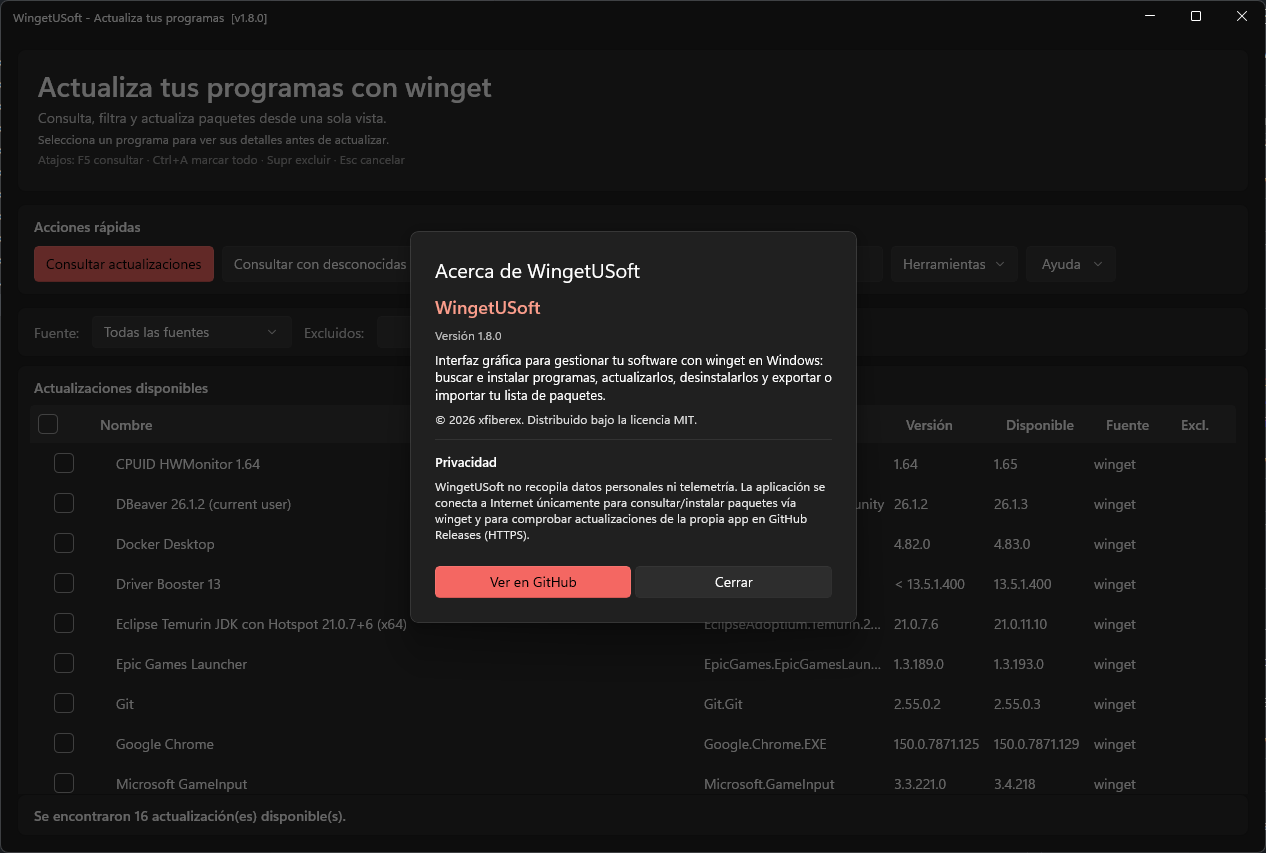
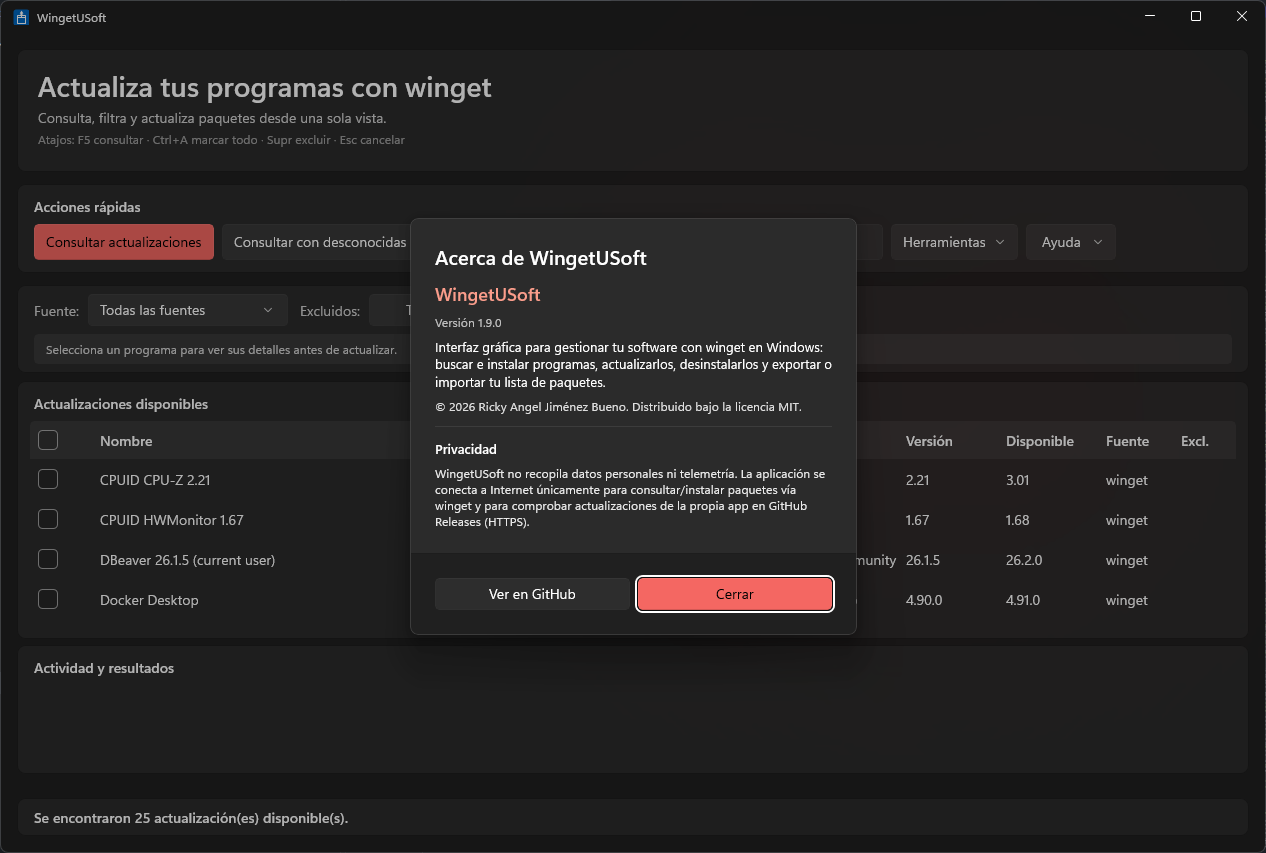
release: v1.9.0

diff --git a/CONTEXT.md b/CONTEXT.md
@@ -256,6 +256,7 @@ Lo comparten el hook de pre-push y `release.ps1`.
 
 | Fecha | Versión | Qué |
 |---|---|---|
+| 2026-09-17 | **1.9.0** | **Tier F · bloque F·2 completo** — Mica visible, diálogos y barra de título modernos, estilos compartidos, etiquetas reales en búsquedas y filtros, y Configuración rehecha con un único patrón de fila |
 | 2026-09-17 | **1.8.9** | **Tier F · bloque F·1 completo** — la bandeja por fin funciona (icono y menú con «Salir»), la tabla desplaza por sí misma, confirmaciones con verbo, botón de peligro AA y diálogos con el tema elegido; CI, CodeQL y Dependabot en GitHub |
 | 2026-08-23 | **1.8.8** | **Tier T4 y cierre del plan de auditoría** — MainWindow dividido, el flujo de lotes por fin probable, cobertura en local, y SECURITY/CONTRIBUTING/CHANGELOG |
 | 2026-08-22 | **1.8.7** | **Tier T3 completo** — el ajuste de notificaciones ya no oculta el resumen del lote, arreglo del flujo de auto-actualización, `.editorconfig` con comprobación de estilo y diagnósticos que por fin van a algún sitio |
@@ -272,6 +273,45 @@ Lo comparten el hook de pre-push y `release.ps1`.
 | 2026-07-11 | **1.4.1** | Snap layouts (Tier B #7) + 3 bugs del flujo instalar/actualizar |
 | 2026-07-10 | **1.4.0** | **Tier B** — layout adaptable, accesibilidad y UI tests con FlaUI |
 | 2026-07-09 | **1.3.0** | **Tier A** completado — paridad con FormatDiskPro + pipeline de release |
+
+---
+
+### 2026-09-17 — Tier F, bloque F·2: alineación con Fluent y WinUI 3 (F-11 a F-16, release v1.9.0)
+
+**17 de 26** del Tier F, con F·1 y F·2 completos. Build 0/0, **343/343 unitarios**, **51/51 UI tests**. Salto de
+versión menor y no de parche: cambia cómo se ve toda la app y Configuración se rehace entera.
+
+**1. Mica de verdad (F-11).** Se pedía `MicaBackdrop` y la raíz de cada ventana lo tapaba con
+`ApplicationPageBackgroundThemeBrush`, que es opaco. Ahora la raíz pasa a transparente solo si
+`MicaController.IsSupported()`: el pincel sólido del XAML queda como reserva para Windows 10. El riesgo estaba en
+el registro, cuyo contraste se calculaba contra un fondo fijo. Medido en pantalla, la tarjeta apenas se mueve
+(`#FBFBFB`–`#FDFBFB`, `#2B2B2B`–`#2D2A2A`), y el test exige ya 4,5:1 contra fondos más desfavorables que lo medido.
+El aviso en tema claro es el color con menos margen: deja de cumplir por debajo de `#EDEDED`.
+
+**2. Diálogos y barra de título (F-12, F-13).** El estilo implícito de `ContentDialog` no alcanza a las subclases
+definidas en XAML, así que Acerca de, Novedades y Licencia usaban la plantilla antigua con parches de esquinas.
+`TitleBarHelper` pintaba a mano blanco o negro en cada estado y cada ventana tenía que acordarse de llamarlo. Lo
+sustituye `AppWindow.TitleBar.PreferredTheme`, fijado desde el tema **resuelto** del contenido, porque con «el del
+sistema» el ajuste no dice si la ventana es clara u oscura.
+
+**3. Estilos compartidos (F-14).** El bloque de tarjeta estaba 30 veces con cinco rellenos. `UI/Styles.xaml` lo
+reduce a cuatro estilos, con radios del sistema y espaciados en la rampa de 4 px. Se comprobó con capturas antes
+y después, píxel a píxel: las diferencias empiezan exactamente en el primer espaciado normalizado. El botón de
+peligro sigue siendo un diccionario y no un `Style`, por lo mismo que en F-05.
+
+**4. Etiquetas y Configuración (F-15, F-16).** Búsquedas y filtros de Historial, Desinstalar y Buscar e instalar
+toman el nombre de su etiqueta visible. Configuración mezclaba cuatro patrones de rotulado y pasa a uno:
+`SettingsCard`, una fila con título y descripción a la izquierda y control a la derecha, sin la dependencia del
+Community Toolkit. Las descripciones salen del código y no de lo que se suponía: `--silent`, un proceso elevado
+por lote en el que Cancelar no detiene el programa en curso, avisos solo en operaciones de 10 s o más, y 30 días
+de registros. La prueba en la app destapó dos defectos:
+- La fila también nombraba los botones desde su título, así que «Limpiar lista» se anunciaba con el título de la
+  fila.
+- Los interruptores decían «Activado» con la app en inglés, porque WinUI toma ese texto del idioma de Windows.
+  Pasaba ya en 1.8.9.
+
+**Capturas del README** regeneradas con `tools/capture-screenshots.ps1`: las anteriores mostraban la Configuración
+vieja, los diálogos sin franja de botones y el fondo sin Mica.
 
 ---
 

diff --git a/ROADMAP.md b/ROADMAP.md
@@ -2143,12 +2143,12 @@ explícita.
 | 2026-09-16 | F-08 | Una sola instancia por ventana secundaria | UI test falla contra 1.8.8 · 42/42 UI tests · 1 ventana de Historial en la app real | `9b77a78` | 1.8.9 |
 | 2026-09-16 | F-09 | Menú en el icono de bandeja, con «Salir» | 314/314 unitarios · icono, clic simple, menú y «Salir» en la app real | `9b77a78` | 1.8.9 |
 | 2026-09-16 | F-10 | Sin salto de maquetación al seleccionar una fila | guard estructural · 0 px de salto en la app real | `9b77a78` | 1.8.9 |
-| 2026-09-17 | F-11 | Mica visible, con fondo sólido de reserva | márgenes con tinte medidos en pantalla · registro ≥ 5,07:1 sobre Mica · 338/338 unitarios | `50119e5` | — |
-| 2026-09-17 | F-12 | Estilo moderno en los diálogos XAML | franjas `#2B2B2B`/`#202020` como el genérico · guard falla al revertir | `50119e5` | — |
-| 2026-09-17 | F-13 | Barra de título con `PreferredTheme` | glifo correcto en claro, oscuro y en caliente · 43/43 UI tests | `50119e5` | — |
-| 2026-09-17 | F-15 | Etiquetas reales en búsquedas y filtros | UI test nuevo en Historial · 4 guards fallan al revertir · 43/43 UI tests | `50119e5` | — |
-| 2026-09-17 | F-14 | Estilos compartidos en `App.xaml` | 30 tarjetas en 4 estilos · capturas antes/después · 3 guards fallan al revertir · 43/43 UI tests | `7ddfd17` | — |
-| 2026-09-17 | F-16 | Configuración con un único patrón de fila | capturas en 2 temas y 2 idiomas · Quitar y Abrir carpeta en la app real · 51/51 UI tests | *(pendiente)* | — |
+| 2026-09-17 | F-11 | Mica visible, con fondo sólido de reserva | márgenes con tinte medidos en pantalla · registro ≥ 5,07:1 sobre Mica · 338/338 unitarios | `50119e5` | 1.9.0 |
+| 2026-09-17 | F-12 | Estilo moderno en los diálogos XAML | franjas `#2B2B2B`/`#202020` como el genérico · guard falla al revertir | `50119e5` | 1.9.0 |
+| 2026-09-17 | F-13 | Barra de título con `PreferredTheme` | glifo correcto en claro, oscuro y en caliente · 43/43 UI tests | `50119e5` | 1.9.0 |
+| 2026-09-17 | F-15 | Etiquetas reales en búsquedas y filtros | UI test nuevo en Historial · 4 guards fallan al revertir · 43/43 UI tests | `50119e5` | 1.9.0 |
+| 2026-09-17 | F-14 | Estilos compartidos en `App.xaml` | 30 tarjetas en 4 estilos · capturas antes/después · 3 guards fallan al revertir · 43/43 UI tests | `7ddfd17` | 1.9.0 |
+| 2026-09-17 | F-16 | Configuración con un único patrón de fila | capturas en 2 temas y 2 idiomas · Quitar y Abrir carpeta en la app real · 51/51 UI tests | `d3d634c` | 1.9.0 |
 
 ### Línea base del Tier F (2026-09-14, v1.8.8)
 

diff --git a/README.md b/README.md
@@ -132,7 +132,8 @@ solo tiene acciones (buscar e instalar, exportar/importar, historial, desinstala
 - **Modo de actualización** — silenciosa o interactiva, y opción de ejecutar como administrador.
 - **Auto-comprobación** — comprueba actualizaciones de forma periódica configurable (30 / 60 / 120 min).
 - **Aviso al terminar** — sonido + parpadeo de la barra de tareas al acabar un lote largo, y progreso en el icono de la barra de tareas.
-- **Log de archivo** — logging opcional por día en `%LocalAppData%\WingetUSoft\logs\`, con purga automática de los de más de 30 días.
+- **Bandeja del sistema** — opcionalmente, cerrar la ventana la deja en el área de notificación: un clic en el icono la devuelve, y su menú ofrece abrir, consultar actualizaciones y salir.
+- **Log de archivo** — logging opcional por día en `%LocalAppData%\WingetUSoft\logs\`, con purga automática de los de más de 30 días y un botón en Configuración para abrir la carpeta.
 
 ### Accesibilidad
 - **Manejable solo con teclado** — incluidas las cabeceras de la tabla (botones enfocables que anuncian

diff --git a/SECURITY.md b/SECURITY.md
@@ -9,7 +9,7 @@ para que puedas avisar por un canal privado antes de que sea público.
 
 | Versión | Soporte |
 |---|---|
-| Última publicada (1.8.x) | ✅ |
+| Última publicada (1.9.x) | ✅ |
 | Cualquier versión anterior | ❌ |
 
 Es un proyecto de autor único: no hay ramas de mantenimiento. Las correcciones salen en la siguiente
